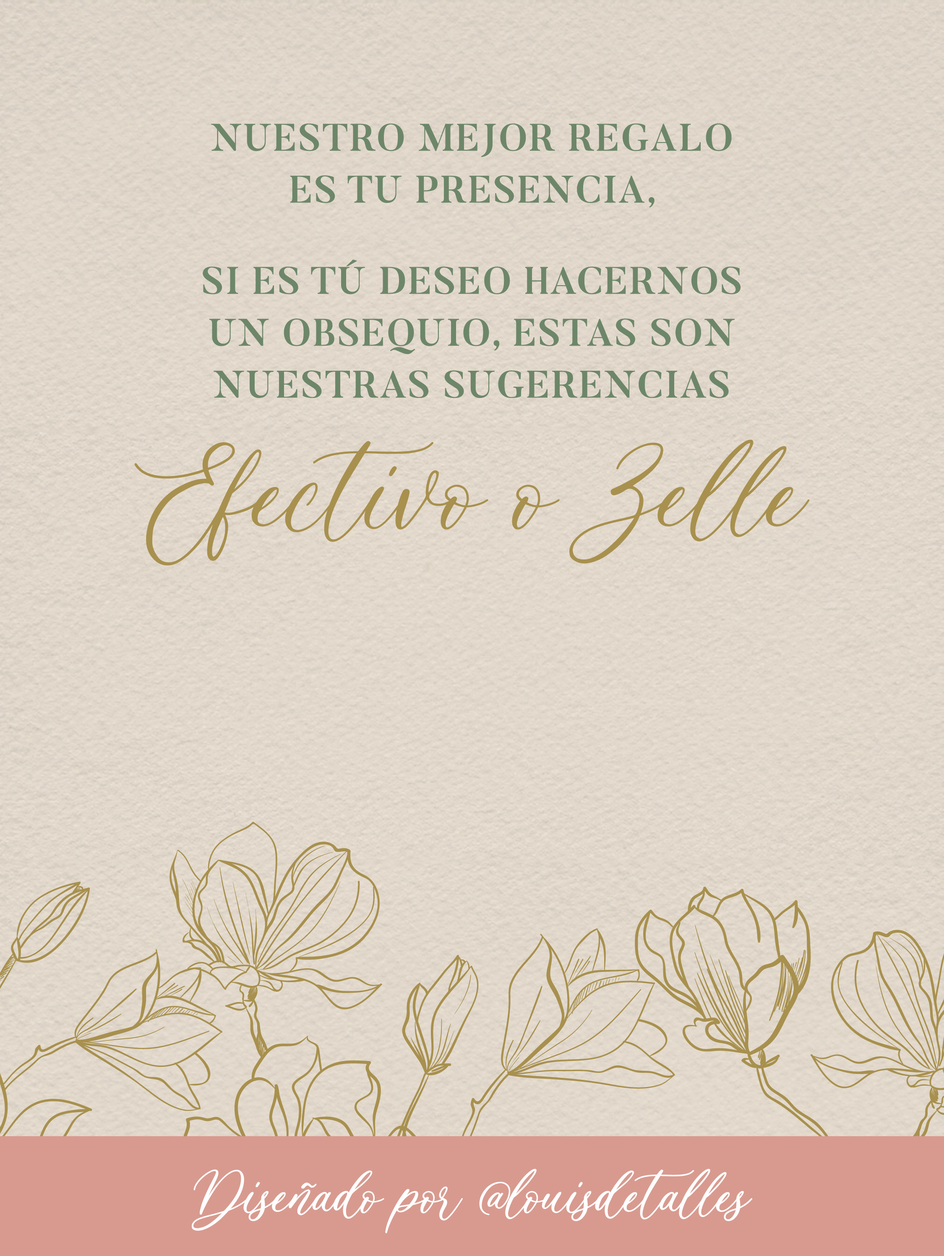
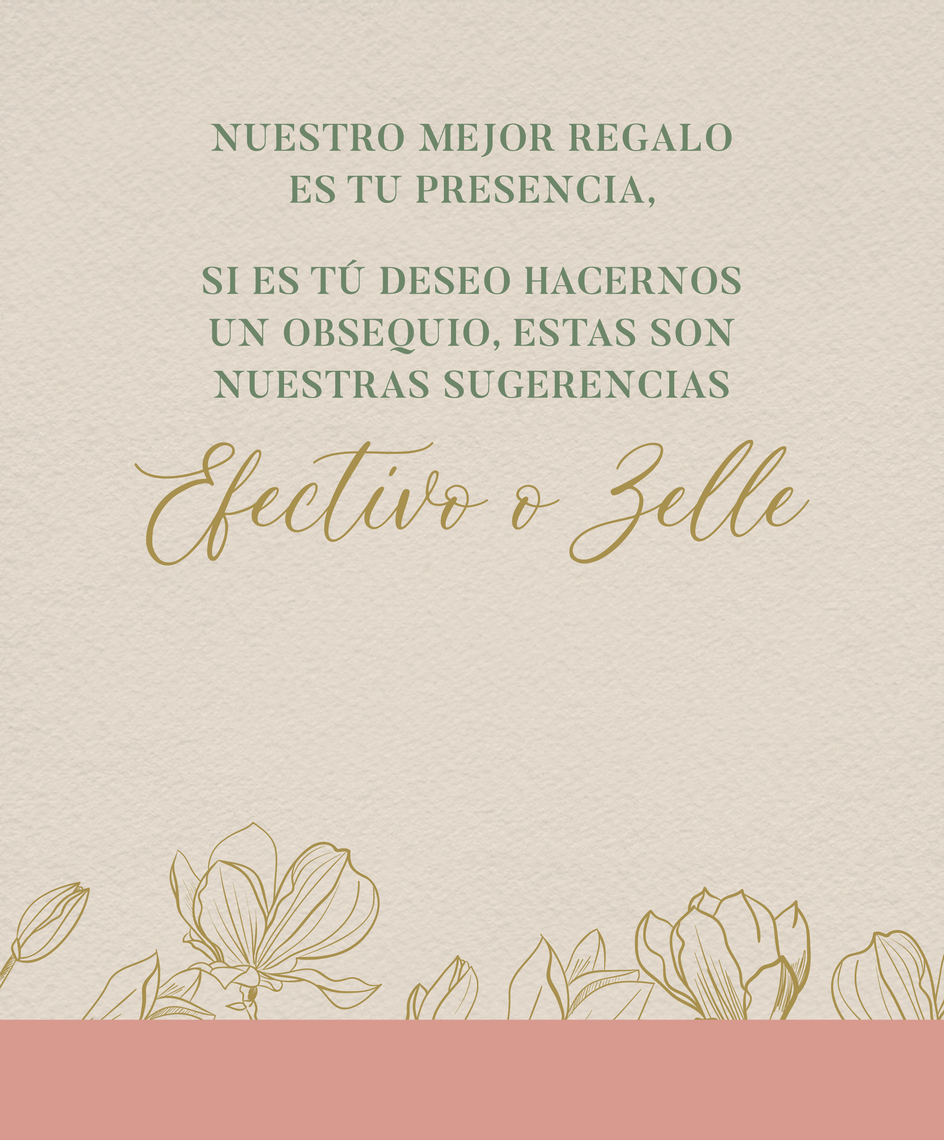
Actualizacion de errores

diff --git a/src/components/Style.css b/src/components/Style.css
@@ -5,8 +5,8 @@
     background-position: center;
     background-repeat: no-repeat;
     background-blend-mode: darken;
-    height: 150vh; /* Siempre ocupa toda la pantalla */
-    min-height: 150vh;
+    height: 400vh; /* Siempre ocupa toda la pantalla */
+    min-height:400vh;
     width: 50rem;
     display: flex;
     position: relative;
@@ -24,8 +24,8 @@
     background-position: center;
     background-repeat: no-repeat;
     background-blend-mode: darken;
-    height: 150vh; /* Siempre ocupa toda la pantalla */
-    min-height: 150vh;
+    height: 210vh; /* Siempre ocupa toda la pantalla */
+    min-height: 210vh;
     width: 50rem;
     display: flex;
     position: relative;
@@ -37,25 +37,6 @@
     text-align: center;
   }
 
-  .Second-Container{
-    background-image: url('../images/TARJETA_4.jpg');
-    background-color: rgba(0,0,0,0);
-    background-size: cover; /* Ancho fijo de 50rem, altura automática */
-    background-position: center;
-    background-repeat: no-repeat;
-    background-blend-mode: darken;
-    height: 120vh; /* Siempre ocupa toda la pantalla */
-    min-height: 120vh;
-    width: 50rem;
-    display: flex;
-    position: relative;
-    left: 50%;
-    transform: translateX(-50%); /* Centra el contenedor horizontalmente */
-    flex-direction: column;
-    justify-content: center;
-    align-items: center;
-    text-align: center;
-  }
 
   .Second-Container{
     background-image: url('../images/TARJETA_4.jpg');
@@ -64,8 +45,8 @@
     background-position: center;
     background-repeat: no-repeat;
     background-blend-mode: darken;
-    height: 200vh; /* Siempre ocupa toda la pantalla */
-    min-height: 200vh;
+    height: 125vh; /* Siempre ocupa toda la pantalla */
+    min-height: 125vh;
     width: 50rem;
     display: flex;
     position: relative;
@@ -98,13 +79,13 @@
   }
   
   .Forth-Container{
-    background-image: url('../images/INVITACION-CARLOS-Y-KATHE_6.jpg');
+    background-image: url('../images/TARJETA_3.jpg');
     background-color: rgba(0,0,0,0);
     background-size: cover; /* Ancho fijo de 50rem, altura automática */
     background-position: center;
     background-repeat: no-repeat;
     background-blend-mode: darken;
-    height: 370vh; /* Siempre ocupa toda la pantalla */
+    height: 450vh; /* Siempre ocupa toda la pantalla */
     min-height: 370vh;
     width: 50rem;
     display: flex;
@@ -181,7 +162,6 @@
 
 
 
-
 .containerbtn-song{
     display: flex;
     position: absolute;
@@ -226,7 +206,7 @@
     position: absolute;
     justify-content: center;
     width: 70%;
-    top: 11%;
+    top: 41%;
   }
 
   .btn-outline-photo{
@@ -236,7 +216,7 @@
     z-index: 100;
     background-color: #BEA760;
     border: 3px solid #A8904E;
-    padding: 0.5rem 0rem;
+    padding: 1rem 3rem;
     transition: all 0.3s ease-out;
     border-radius: 50px;
     text-decoration-line: none;
@@ -244,9 +224,9 @@
     cursor: pointer;
     margin-top: 0rem; 
     font-family: 'Mosseta';
-    font-weight: 800;
+    font-weight: 900;
     letter-spacing: 0px;
-    font-size: 1.5rem;
+    font-size: 2rem;
     color: #ffffff;
     margin-top: 1rem;
     text-decoration: none;
@@ -302,22 +282,23 @@
 
 
     
-.containerbtn-Ca{
-    display: flex;
-    position: absolute;
-    justify-content: center;
-    width: 70%;
-    top: 60%;
-  }
-
-  .btn-outline-Ca{
-    display: flex;
+    .containerbtn-Ca{
+        display: flex;
+        position: absolute;
         justify-content: center;
+        width: 70%;
+        top: 83%;
+      }
+
+.btn-outline-Ca{
+        display: flex;
+        justify-content: center;
+        flex-direction: column;
         width: 80%;
         z-index: 100;
         background-color: #BEA760;
-        border: 3px solid #BEA760;
-        padding: 1rem 2.8rem;
+        border: 3px solid #A8904E;
+        padding: 0.5rem 2.8rem;
         transition: all 0.3s ease-out;
         border-radius: 50px;
         text-decoration-line: none;
@@ -327,12 +308,24 @@
         font-family: 'Butler_Medium';
         font-weight: 800;
         letter-spacing: 1px;
-        font-size: 1rem;
+        font-size: 1.5rem;
         color: #ffffff;
         margin-top: 1rem;
         text-decoration: none;
-}
+    }
 
+        .btn-outline-Ca-spam{
+        position: relative;
+        top: 0%;
+        font-family: 'Romantic_Lovely';
+        letter-spacing: 2px;
+        font-size: 2rem;
+        line-height: 1.5rem;
+        color: #ffffff;
+        text-decoration: none;
+        margin: 0px;
+        padding: 0px;
+    }
 .btn-outline-Ca:hover{
   color: #ffffff;
   background-color: #BEA760;
@@ -340,6 +333,49 @@
 }
 
 
+
+    .containerbtn-Cb{
+        display: flex;
+        position: absolute;
+        justify-content: center;
+        width: 70%;
+        top: 90%;
+      }
+      .btn-outline-Cb{
+        display: flex;
+        justify-content: center;
+        flex-direction: column;
+        width: 80%;
+        z-index: 100;
+        background-color: #BEA760;
+        border: 3px solid #A8904E;
+        padding: 0.5rem 2.8rem;
+        transition: all 0.3s ease-out;
+        border-radius: 50px;
+        text-decoration-line: none;
+        outline: none;
+        cursor: pointer;
+        margin-top: 0rem; 
+        font-family: 'Butler_Medium';
+        font-weight: 800;
+        letter-spacing: 1px;
+        font-size: 1.5rem;
+        color: #ffffff;
+        margin-top: 1rem;
+        text-decoration: none;
+    }
+    .btn-outline-cb-spam{
+        position: relative;
+        top: 0%;
+        font-family: 'Romantic_Lovely';
+        letter-spacing: 2px;
+        font-size: 2rem;
+        line-height: 1.5rem;
+        color: #ffffff;
+        text-decoration: none;
+        margin: 0px;
+        padding: 0px;
+    }
 
 
 
@@ -379,8 +415,60 @@
     z-index: 1;
   }
 
+  .contenedor__ig{
+    display: flex;
+    position: absolute;
+    top:91%
+  }
+  .contenedor__ig_p{
+    font-family: 'Romantic_Lovely';
+    text-decoration: none;
+        font-weight: 500;
+        letter-spacing: 2px;
+        font-size: 1.5rem;
+        color: #ffffff;
+  }
 
 
+
+    .Container__Anillo{
+      display: flex;
+      justify-content: center;
+      position: absolute;
+      top:87%;
+    }
+
+        .containerbtn-ulti{
+        display: flex;
+        position: absolute;
+        justify-content: center;
+        width: 70%;
+        top: 60%;
+      }
+
+      .btn-outline-ulti{
+        display: flex;
+        justify-content: center;
+        flex-direction: column;
+        width: 80%;
+        z-index: 100;
+        background-color: #9FB09D;
+        border: 3px solid #758C70;
+        padding: 1.5rem 0rem;
+        transition: all 0.3s ease-out;
+        border-radius: 50px;
+        text-decoration-line: none;
+        outline: none;
+        cursor: pointer;
+        margin-top: 0rem; 
+        font-family: 'Butler_Medium';
+        font-weight: 800;
+        letter-spacing: 1px;
+        font-size: 1.5rem;
+        color: #ffffff;
+        margin-top: 1rem;
+        text-decoration: none;
+    }
 
   
   @media only screen and (max-width: 960px) { 
@@ -606,17 +694,17 @@
         position: absolute;
         justify-content: center;
         width: 70%;
-        top: 44%;
+        top: 41%;
       }
 
       .btn-outline-photo{
         display: flex;
         justify-content: center;
-        width: 80%;
+        width: 100%;
         z-index: 100;
         background-color: #BEA760;
         border: 3px solid #A8904E;
-        padding: 1rem 2.8rem;
+        padding: 1rem 0rem;
         transition: all 0.3s ease-out;
         border-radius: 50px;
         text-decoration-line: none;
@@ -626,7 +714,7 @@
         font-family: 'Butler_Medium';
         font-weight: 800;
         letter-spacing: 1px;
-        font-size: 1rem;
+        font-size: 1.3rem;
         color: #ffffff;
         margin-top: 1rem;
         text-decoration: none;

diff --git a/src/components/Second.jsx b/src/components/Second.jsx
@@ -12,6 +12,10 @@ const Second = () => {
        <div className='containerbtn-ulti'>
           <a className='btn-outline-ulti' type='button' href='https://drive.google.com/file/d/1seJJ9R4321Z6rwb6mPhEcH66de-IyoFk/view?usp=sharing'> DATOS AQUI </a>
       </div>
+
+      <div className='contenedor__ig'>
+        <p className='contenedor__ig_p'>Diseñado por <a href="https://www.instagram.com/louisdetalles/" style={{textDecoration:'none', color:'white', fontWeight:'700'}}>@louisdetalles </a></p>
+      </div>
     </div>
   )
 }
